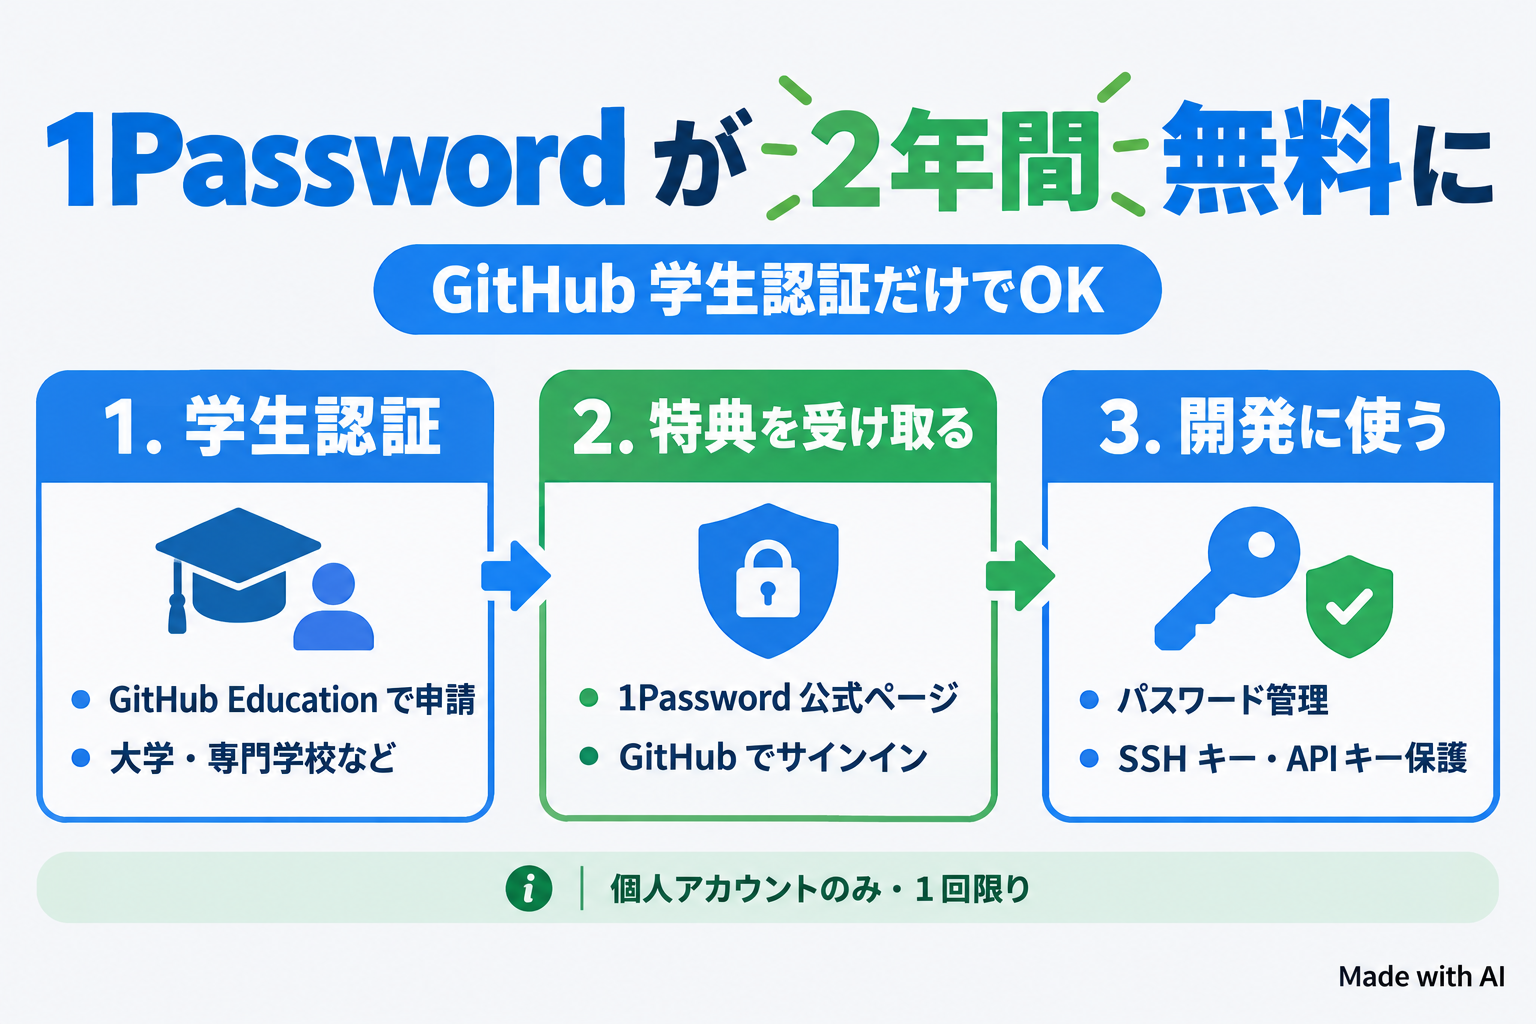
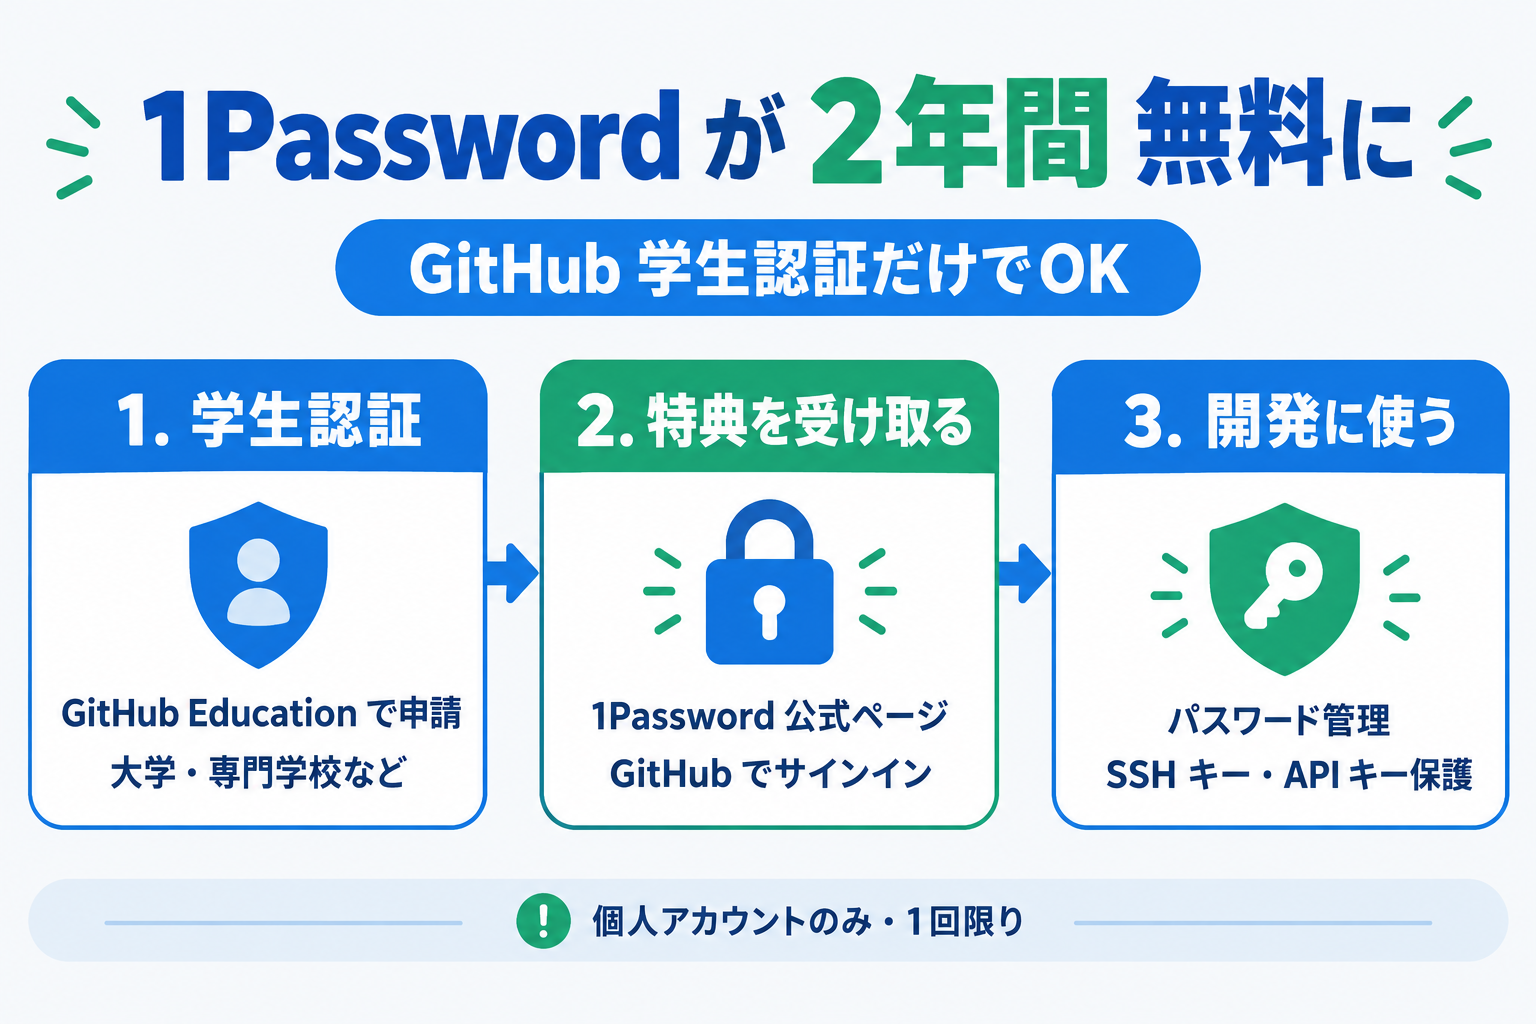
docs: 1Password 記事の解説図をウォーターマークなしで再生成

Changed region(s): [[0.0, 0.0625, 1.0, 0.9375], [0.875, 0.9375, 1.0, 0.9688]]

diff --git a/1password-student-pack/demo-procedure.md b/1password-student-pack/demo-procedure.md
@@ -42,7 +42,7 @@
 | `demo-10e-openssh-disable-dialog` | SSH Agent | OpenSSH を無効にしているかの確認ダイアログ |
 | `demo-10f-ssh-agent-running` | SSH Agent | 「実行中」と、利用できる SSH キーに GitHub が出た画面 |
 
-解説図（GPT Image 2.5 で生成）は `img-00-tldr-overview` / `img-01-why-secrets` / `img-02-ssh-agent-before-after` / `img-03-agent-credentials` です。右下に「Made with AI」表記が入っています。
+解説図（GPT Image 2.5 で生成。ウォーターマークなしで再生成済み）は `img-00-tldr-overview` / `img-01-why-secrets` / `img-02-ssh-agent-before-after` / `img-03-agent-credentials` です。
 
 ### 公開前に目視で確認すること
 
@@ -50,7 +50,7 @@
 - [ ] `demo-09d` に写っている公開鍵（赤塗り以外の部分）に問題がない（公開鍵は秘密ではないが、念のため）
 - [ ] `demo-06a` のアドレスバーが黒塗りされている
 - [ ] `demo-10f` のキーのフィンガープリントが赤塗りされ、拡大しても読めない
-- [ ] 解説図 `img-03` の右上ボックス見出し（「1Password が直接入力」）の文字が重なって見えないか
+- [ ] 解説図 `img-02` の Before パネルで、`~/.ssh/id_ed25519` が2か所に出ている（気になる場合は再生成）
 
 ---
 

diff --git a/1password-student-pack/article-qiita.md b/1password-student-pack/article-qiita.md
@@ -23,7 +23,7 @@ agreed_posting_campaign_term: false
 3. 「パスワード管理は後回し」な学生開発者へ：1Password 2年間無料特典の使いどころ
 
 【画像について】
-- img-00 〜 img-03 は GPT Image 2.5 で生成した解説画像（右下に「Made with AI」表記が入っている）
+- img-00 〜 img-03 は GPT Image 2.5 で生成した解説画像（ウォーターマークなしで再生成済み）
 - demo-01 〜 demo-10f は実機スクリーンショット（2026-11-07 / 11-08 撮影）。赤枠は撮影時に入れたもの
 - メールアドレスとキーのフィンガープリントは赤塗りで伏せ済み。demo-06a はアドレスバーの URL（サインアップ用コード付き）を黒塗り済み
 - demo-10b〜10f はウィンドウ外に写っていた VS Code の断片を切り落とし済み
